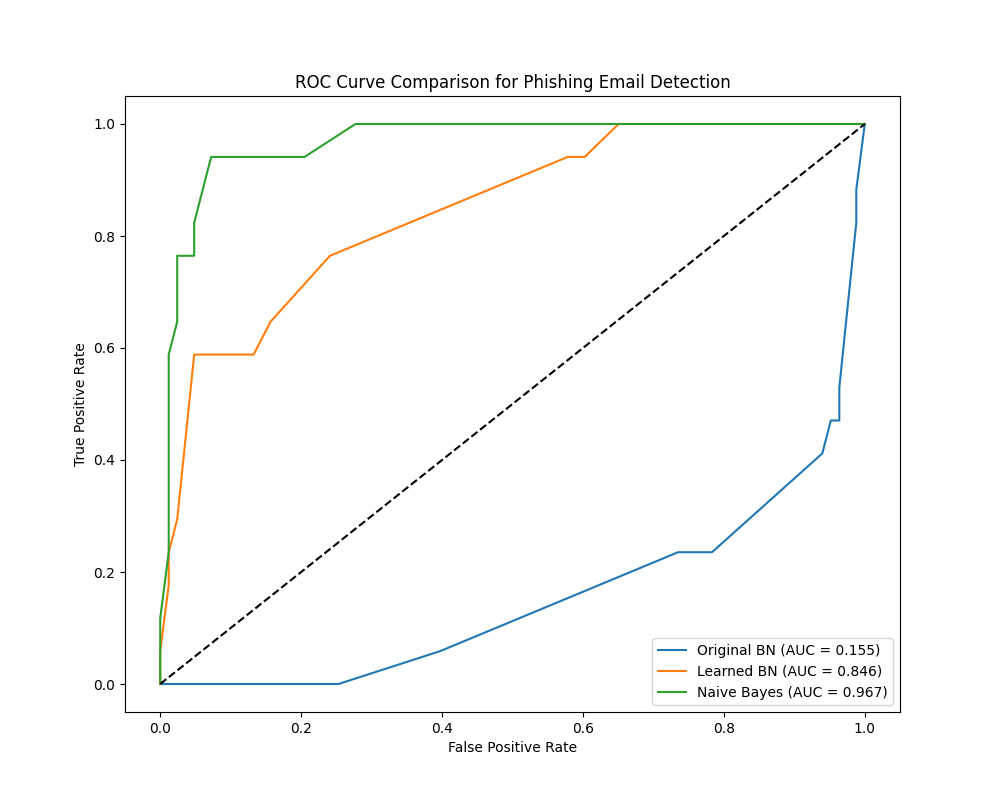
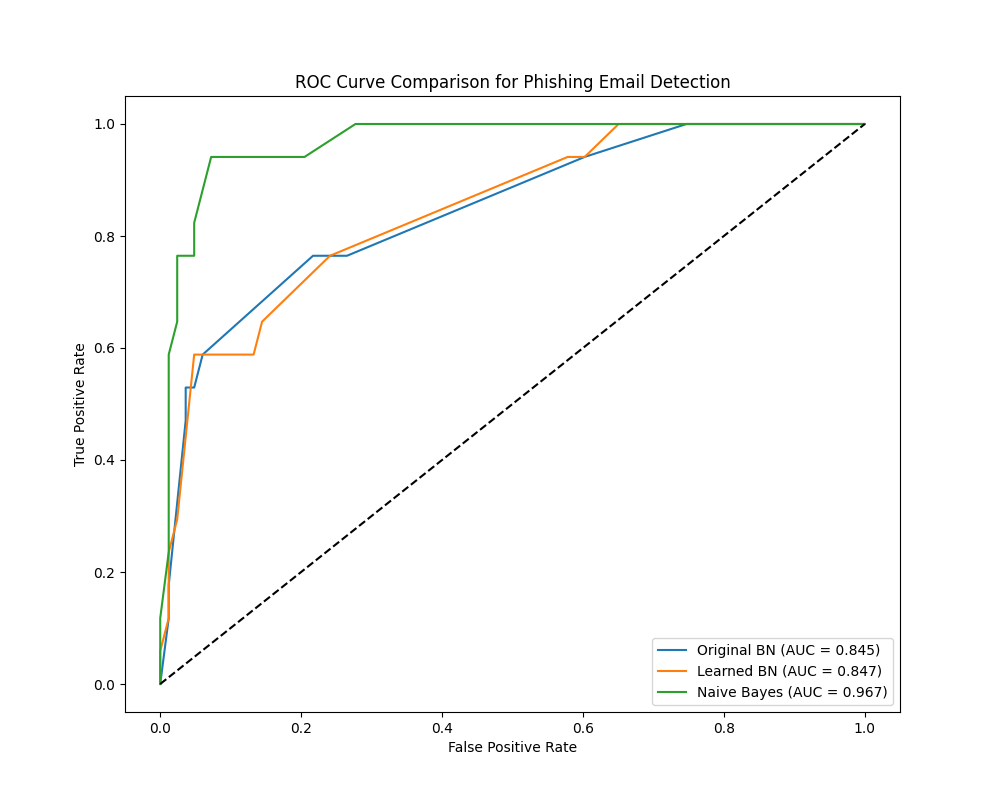
update mistake in 04_classifierComparison.py + results update

diff --git a/2-learn/04-classifierComparison.py b/2-learn/04-classifierComparison.py
@@ -28,6 +28,14 @@ def predict_proba_bn(bn, df):
 
     probabilities = []
 
+    variable = bn.variableFromName("PhishingEmail")
+    yes_index = None
+
+    for i in range(variable.domainSize()):
+        if variable.label(i) == "yes":
+            yes_index = i
+            break
+
     for _, row in df.iterrows():
         ie.setEvidence({
             "SenderReputation": row["SenderReputation"],
@@ -38,7 +46,7 @@ def predict_proba_bn(bn, df):
 
         ie.makeInference()
 
-        prob = ie.posterior("PhishingEmail")[1] # Probability of "yes"
+        prob = ie.posterior("PhishingEmail")[yes_index] # Probability of "yes"
         probabilities.append(prob)
 
     return np.array(probabilities)
